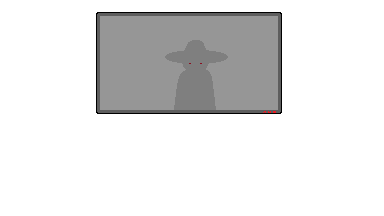
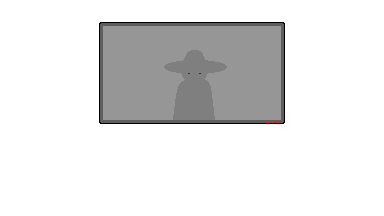
fonctionnalité zoom

Changed region(s): [[0.25, 0.0556, 0.75, 0.5833]]

diff --git a/classGame.py b/classGame.py
@@ -14,8 +14,7 @@ class Game:
         self.spectateur = Spectateur(self, self.screen, self.pixel)
         self.presentateur = Presentateur(self, self.screen, self.pixel)
         self.ecran = Ecran(self, self.screen, self.pixel)
-        self.__zoom = 30 #entre 0 et 100
-        self.spectateur.zoom(30)
+        self.zoom = 0 #entre 0 et 100
         #exemple son
         #self.soundEnd = pygame.mixer.Sound("jeuPingPong/assets/sound/applaudissements.mp3")
 
@@ -24,8 +23,8 @@ class Game:
     def updateZoom(self, n):
         self.zoom = n
         self.spectateur.zoom(n)
-        #self.screen.zoom(n)
-        #self.presentateur.zoom(n)
+        self.ecran.zoom(n)
+        self.presentateur.zoom(n)
         
     def update(self):
         self.screen.blit(self.background,(0,0))
@@ -33,13 +32,3 @@ class Game:
         self.spectateur.update()
         self.presentateur.update()
 
-class Question():
-    '''
-    
-    '''
-    def __init__(self, screen, question, reponse, propositions, explication):
-        self.screen = screen 
-        self.question = question #string
-        self.reponse = reponse #index dans la liste proposition
-        self.propositions = propositions #liste de propositions
-        self.explication = explication #string

diff --git a/main.py b/main.py
@@ -1,5 +1,5 @@
 import pygame
-from classGame import Game, Question
+from classGame import Game
 pygame.init()
 
 
@@ -10,16 +10,7 @@ screen = pygame.display.set_mode((1280, 720))
 #le jeu tourne en 384 x 216 pixels
 jeu = True
 game = Game(screen)
-dict_question = [{"question": "« Les personnes entièrement vaccinées développent le syndrome d’immunodéficience acquise (sida) »", "r1" : "Vrai", "r2" : "Faux", "bonne_reponse" : 2, "explication" : "Cette FakeNews provient du site 'Le Grand Réveil', et elle aurait pour source : 'Les rapports officiels du gouvernement britanique'"},
-                 {"question": "« Le vaccin contre le Covid-19 contiendrait des puces électroniques 5G, pour nous tracer et ficher ! »", "r1" : "Vrai", "r2": "Faux", "bonne_reponse" : 2, "explication" : " Cette FakeNews est relayer sur les reseaux, démentie par le CHU de Toulouse dans un tweet."}
-                 ]
 
-lst_obj_question = []
-
-for i in dict_question : 
-    lst_obj_question.append(Question(screen, i['question'], i["bonne_reponse"], [i['r1'], i['r2']], i['explication']))
-
-print(lst_obj_question)
 
 while jeu:
     pygame.display.flip()

diff --git a/classPresentateur.py b/classPresentateur.py
@@ -8,9 +8,16 @@ class Presentateur:
         self.screen = screen
         self.game = game
         self.pixel = pixel
-        self.img = pygame.transform.scale(pygame.image.load('assets/presentateur/presentateur.png'),(384*self.pixel[0],216*self.pixel[1]))
+        self.imgOrigin = pygame.transform.scale(pygame.image.load('assets/presentateur/presentateur.png'),(384*self.pixel[0],216*self.pixel[1]))
+        self.img = self.imgOrigin
 
     def update(self):
         """cette fonction met à jour l'affichage et la position des spectateurs"""
-        self.screen.blit(self.img, (0,0))
+        self.screen.blit(self.img, (self.pixel[0]*192 - self.img.get_width()/2, self.pixel[1]*108 - self.img.get_height()/2 + 40*self.pixel[1]/100*self.game.zoom))
         #changer l'opacité
+    
+    def zoom(self, n):
+        self.img = pygame.transform.rotozoom(self.imgOrigin,0,1+(n*(2.5/255)))
+        print(n)
+        if n > 50:
+            self.img.set_alpha(255-(n-50)*12.75)

diff --git a/classEcran.py b/classEcran.py
@@ -8,8 +8,12 @@ class Ecran:
         self.screen = screen
         self.game = game
         self.pixel = pixel
-        self.img = pygame.transform.scale(pygame.image.load('assets/ecran/ecran.png'),(384*self.pixel[0],216*self.pixel[1]))
+        self.imgOrigin = pygame.transform.scale(pygame.image.load('assets/ecran/ecran.png'),(384*self.pixel[0],216*self.pixel[1]))
+        self.img = self.imgOrigin
 
     def update(self):
         """cette fonction met à jour l'affichage et la position des spectateurs"""
-        self.screen.blit(self.img, (0,0))
+        self.screen.blit(self.img, (self.pixel[0]*192 - self.img.get_width()/2, self.pixel[1]*108 - self.img.get_height()/2 + 68*self.pixel[1]/100*self.game.zoom))
+
+    def zoom(self, n):
+        self.img = pygame.transform.rotozoom(self.imgOrigin,0,1+(n*(2.5/255)))

diff --git a/classSpectateur.py b/classSpectateur.py
@@ -13,8 +13,9 @@ class Spectateur:
 
     def update(self):
         """cette fonction met à jour l'affichage et la position des spectateurs"""
-        self.screen.blit(self.img, (0,0))
+        self.screen.blit(self.img, (self.pixel[0]*192 - self.img.get_width()/2, self.pixel[1]*108 - self.img.get_height()/2 + 60*self.pixel[1]/100*self.game.zoom))
     
     def zoom(self, n):
-        print(255-n*4.25)
-        self.img.set_alpha(255-n*(-4.25))
+        self.img = pygame.transform.rotozoom(self.imgOrigin,0,1+(n*(2.5/255)))
+        if n > 80:
+            self.img.set_alpha(255-(n-80)*12.75)
